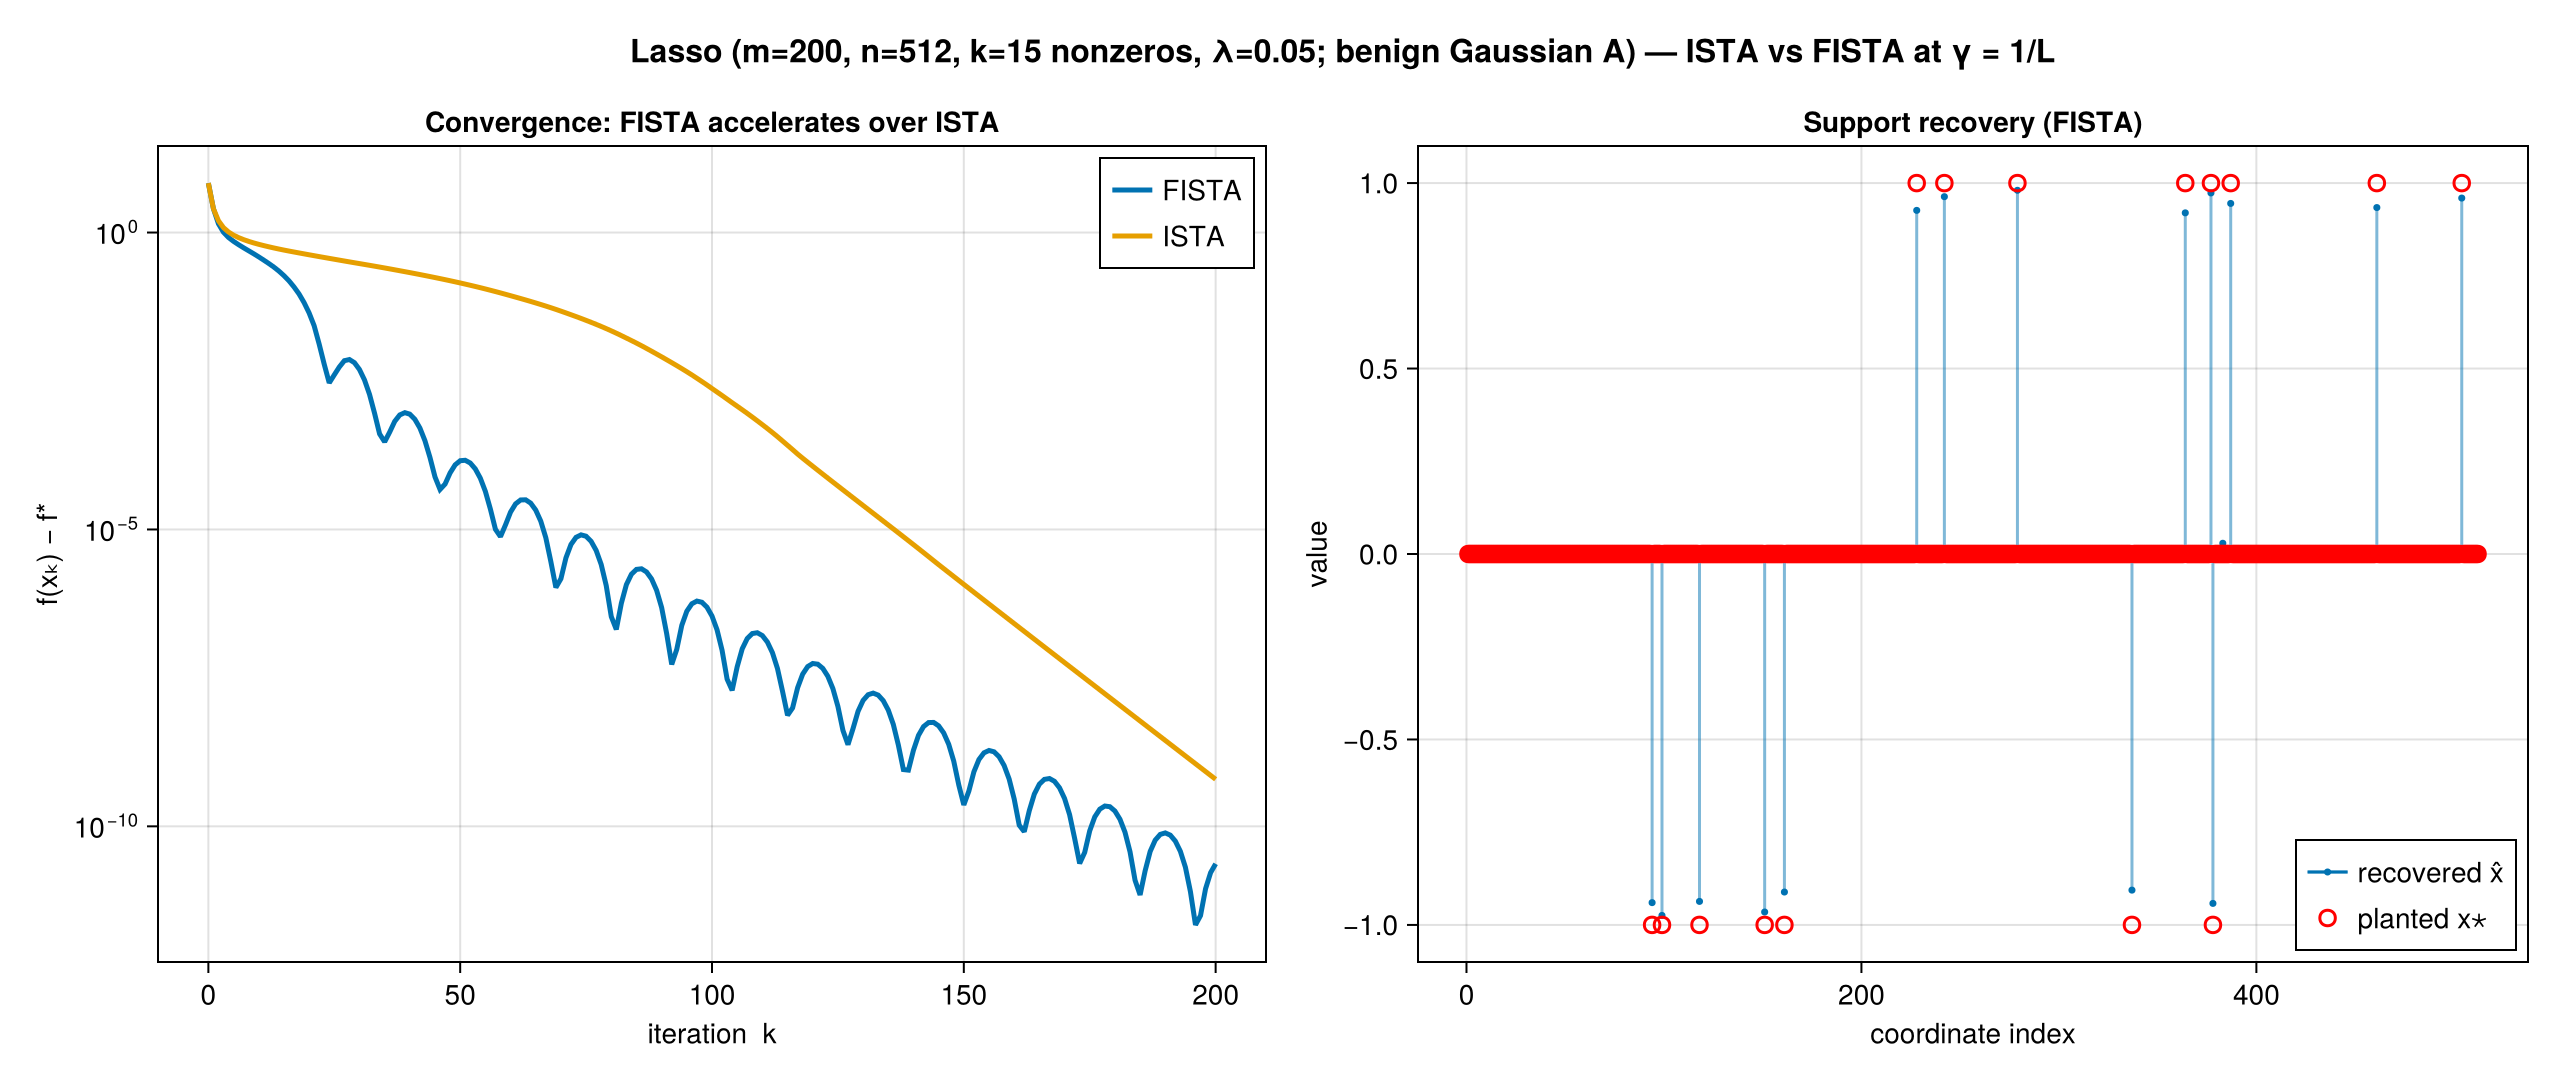
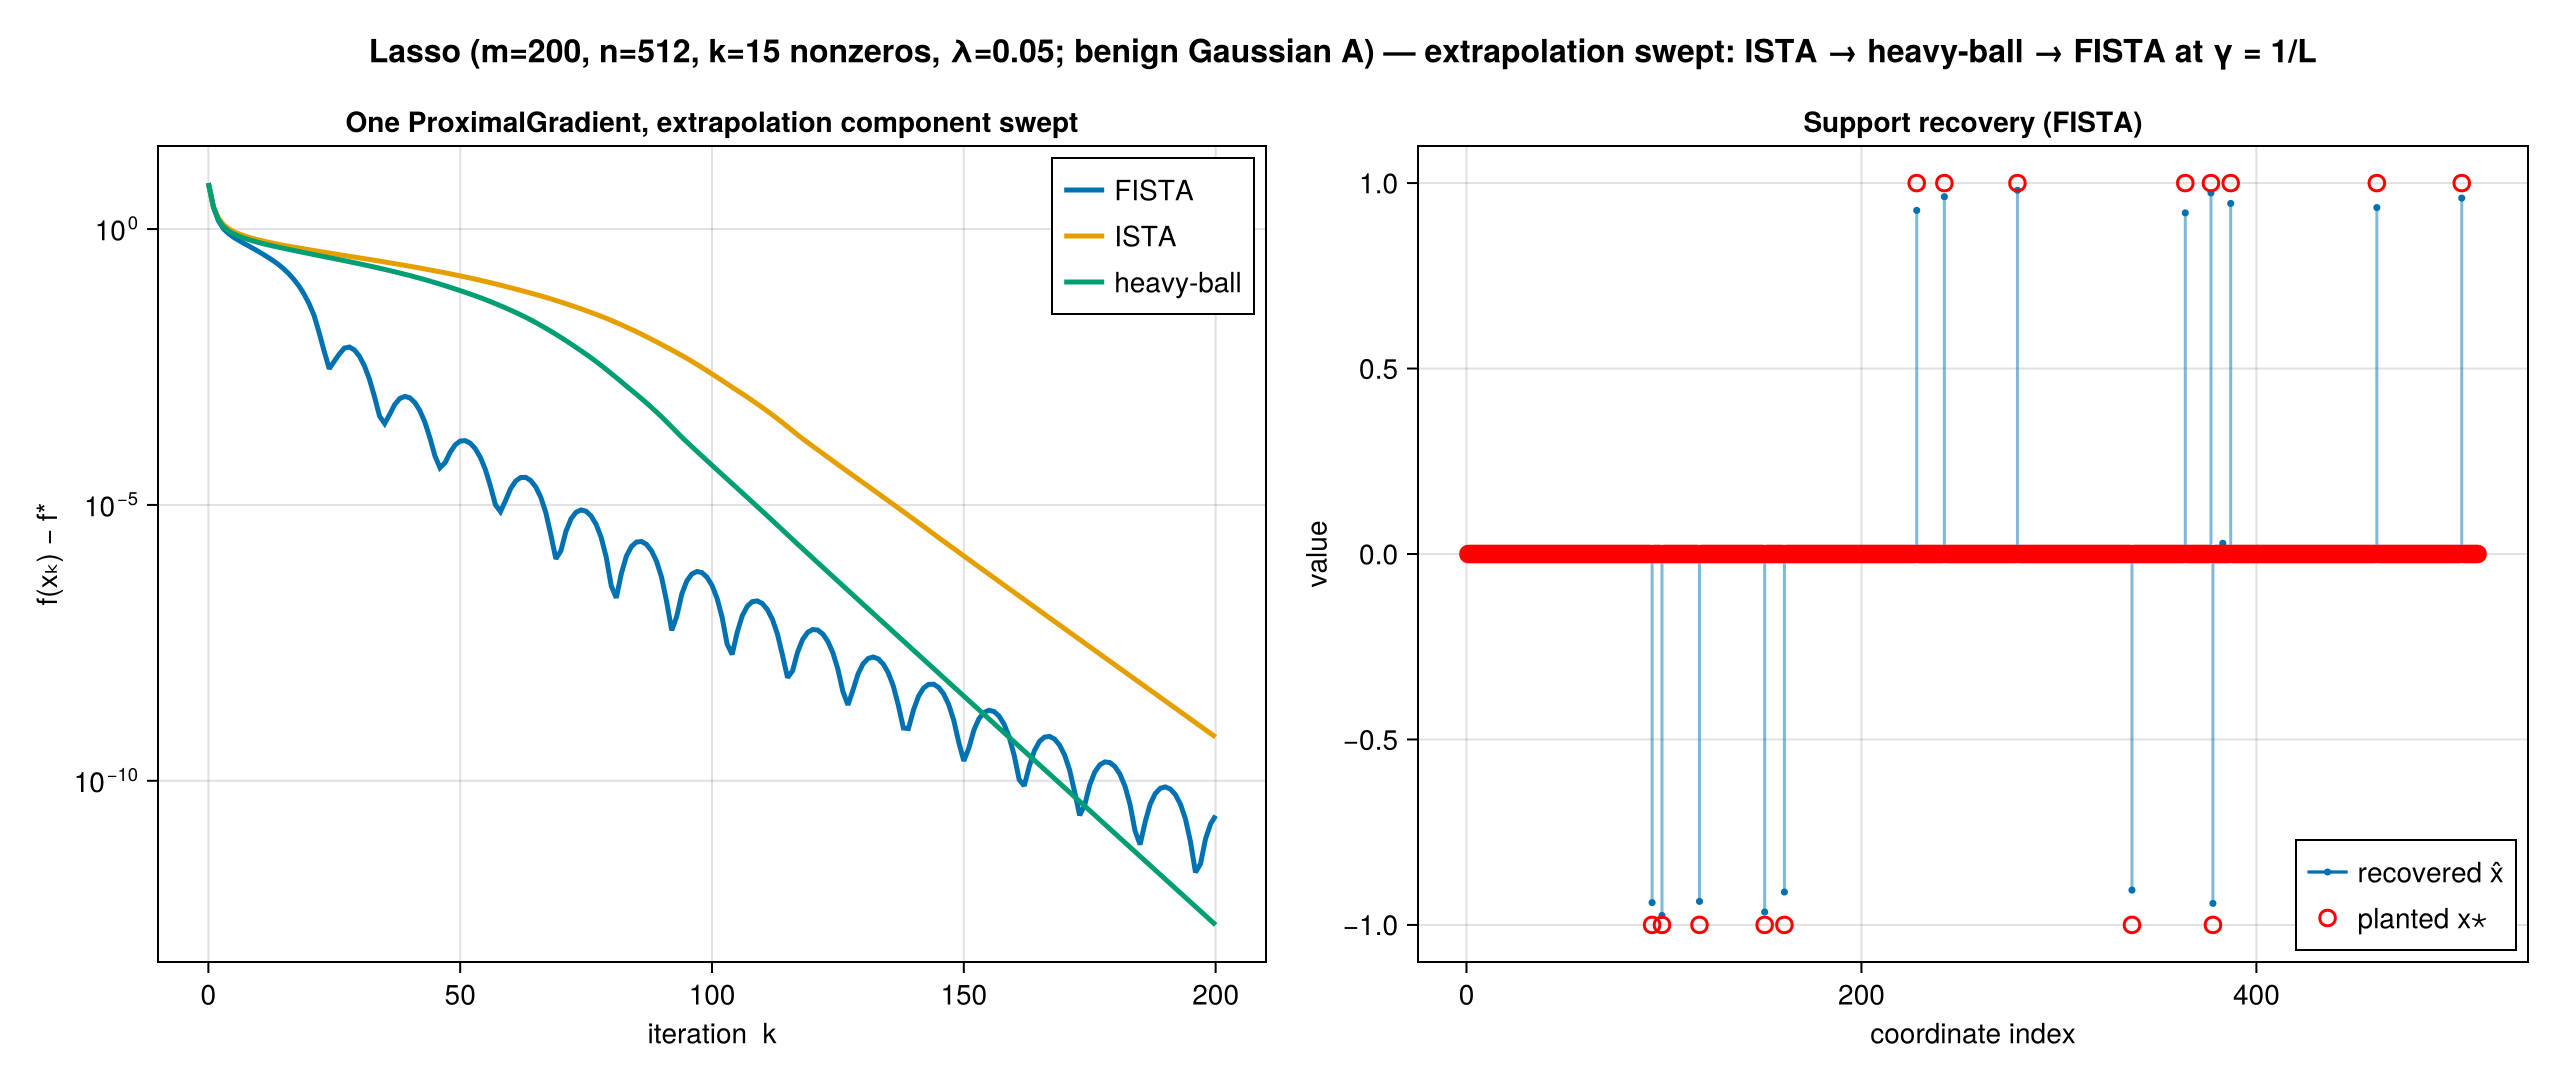
feature: flagship sweeps the extrapolation component

diff --git a/README.md b/README.md
@@ -8,6 +8,12 @@ define a method once, sweep its variants, run them against conventional baseline
 shared problems, and measure convergence and *core* compute time under one honest,
 reproducible harness.
 
+## See how it works
+
+[**walkthrough.ipynb**](walkthrough.ipynb) is a complete, runnable walkthrough of *using* the framework:
+define and register your own problem (ridge regression), author a custom method (heavy-ball), set up an experiment with a variant grid and baseline/experimental roles, run it, persist & reload, and plot the comparison —
+the best place to start if you want to see the tool driven end to end.
+
 ## Design philosophy
 
 - **Dispatch for extension, components for variation**:
@@ -39,30 +45,32 @@ dimension and conditioning sweeps, preconditioning, and a nested trust-region so
 with what each one demonstrates and all five figures, see
 **[experiments/README.md](experiments/README.md)**.
 
-![ISTA vs FISTA on the lasso: FISTA's O(1/k²) acceleration over ISTA's O(1/k), and exact support recovery](figures/lasso_ista_fista.png)
+![One ProximalGradient on the lasso with its extrapolation component swept — ISTA, heavy-ball, FISTA — and exact support recovery](figures/lasso_ista_fista.png)
 
-> **The flagship figure (above).** Proximal gradient on the sparse-recovery lasso
-> `min ½‖Ax−b‖² + λ‖x‖₁`. *Left:* FISTA's acceleration visibly beats ISTA — a ~1000×
-> smaller objective gap by iteration 50 (the `O(1/k)`-vs-`O(1/k²)` sublinear-rate
-> *slope* separation is measured directly in `test/test_proximal_gradient.jl`). *Right:* the recovered
-> solution lands exactly on the planted ±1 spikes, with a clean zero baseline.
+> **Flagship — one `ProximalGradient` on the sparse-recovery lasso**
+> `min ½‖Ax−b‖² + λ‖x‖₁`, with only its **extrapolation component swept**:
+> the project's core idea in one figure.
+> No momentum (ISTA) → fixed momentum (heavy-ball) → Nesterov's schedule (FISTA) orders the convergence (left);
+> the recovered solution lands exactly on the planted ±1 spikes (right).
+> Full annotation in **[DESIGN.md](DESIGN.md)**.
 
 ## Going deeper
 
-The engine itself developed and tested capability-by-capability across nine
-stages on Rosenbrock — first figure, then trajectories, persistence, stopping
-criteria, the orchestrator, multi-run, observability, cross-cutting validation.
-That staged build log lives in **[experiments/stages](experiments/stages/)**.
+The engine itself developed and tested capability-by-capability across nine stages on Rosenbrock —
+first figure, then trajectories, persistence, stopping criteria, the orchestrator, multi-run, observability, cross-cutting validation.
+That staged build log — with its own trajectory figures — lives in **[experiments/stages](experiments/stages/)**.
 
-[![GradientDescent step-size variants tracing Rosenbrock's valley toward the optimum, on log-spaced contours](experiments/stages/figures/stage2_trajectories.png)](experiments/stages/)
-
-*Stage 2: five step-size rules navigating the banana valley. ↑ click through to the build log.*
-
-## Run the tests
+## Tests & validation
 
 ```bash
 julia --project test/runtests.jl     # full unit + cross-validation suite
 ```
+
+Converged solutions are **externally cross-checked** against `A\b`,
+[Optim.jl](https://github.com/JuliaNLSolvers/Optim.jl) (GradientDescent / LBFGS) and
+[ProximalAlgorithms.jl](https://github.com/JuliaFirstOrder/ProximalAlgorithms.jl)
+(ForwardBackward / FastForwardBackward) — see
+[`test/test_external_validation.jl`](test/test_external_validation.jl).
 
 ## Layout
 
@@ -81,12 +89,6 @@ test/                runtests.jl + per-area test files
 ```
 
 ## Documentation
-
-[**walkthrough.ipynb**](walkthrough.ipynb) is a complete, runnable walkthrough of *using*
-the framework: define and register your own problem (ridge regression), author a custom
-method (heavy-ball), set up an experiment with a variant grid and baseline/experimental
-roles, run it, persist & reload, and plot the comparison. Best starting point if you want
-to learn how to drive the tool.
 
 [**docs/ARCHITECTURE.md**](docs/ARCHITECTURE.md) is the map of every document in the
 project — the hosted [Documenter site](https://MoFirouzT.github.io/Iterative-Methods-Test-Engine)

diff --git a/DESIGN.md b/DESIGN.md
@@ -45,35 +45,41 @@ You define a method once; the harness runs it (and its swept variants, and the c
    talks to the next through plain data structures, so any one can be read, tested, and
    replaced in isolation.
 
-## One experiment, annotated: ISTA → FISTA on the lasso
+## One experiment, annotated: sweeping one component on the lasso
 
 The flagship experiment ([experiments/exp_lasso_ista_fista.jl](experiments/exp_lasso_ista_fista.jl))
-exercises the whole composite-objective path with a single method.
+exercises the whole composite-objective path with a single method — and is the project's
+core idea in one figure: *one* method, with only a single swappable component varied.
 
 **Problem.** Sparse recovery: `min_x ½‖Ax − b‖² + λ‖x‖₁`, underdetermined (`m < n`) with a
 planted `k`-sparse signal — registered as the `:lasso` family.
 
-**Method.** `ProximalGradient` is one method with two plug-in slots: a `StepSize` and a
+**Method.** `ProximalGradient` is one method with two plug-in slots: a `StepSize` and an
 `Extrapolation`. Each step extrapolates, takes a gradient step on the smooth `½‖Ax−b‖²`, then
-applies the `prox` of `λ‖x‖₁` (soft-thresholding):
+applies the `prox` of `λ‖x‖₁` (soft-thresholding). The figure holds the `StepSize` fixed
+(`γ = 1/L`) and sweeps **only the `Extrapolation` component**:
 
 - `Extrapolation = NoExtrapolation()` ⇒ **ISTA** (plain proximal gradient, `O(1/k)`).
+- `Extrapolation = MomentumStep(α)` ⇒ **heavy-ball** (fixed-momentum extrapolation).
 - `Extrapolation = NesterovStep()` ⇒ **FISTA** (`O(1/k²)`).
 - a *zero* regularizer ⇒ the same method is (accelerated) gradient descent on a smooth
   problem — so one method also tells the smooth-acceleration story.
 
 **Result (the flagship figure).**
 
-![ISTA vs FISTA](figures/lasso_ista_fista.png)
+![One ProximalGradient on the lasso with its extrapolation component swept: ISTA, heavy-ball, FISTA, plus support recovery](figures/lasso_ista_fista.png)
 
-*Left:* `f(xₖ) − f*` on a log axis. FISTA's curve plunges below ISTA's and stays ~3–4 orders
-of magnitude lower through the interesting regime — FISTA's acceleration, with its
-characteristic non-monotone ripple. (The methods' worst-case rates are `O(1/k²)` vs `O(1/k)`;
-on this well-conditioned instance both *ultimately* converge linearly once the support is
-identified, so the figure shows the acceleration, while the clean `O(1/k)`-vs-`O(1/k²)` log-log
-*slope* separation is measured on a non-strongly-convex instance in
-`test/test_proximal_gradient.jl`.) *Right:* the recovered iterate's nonzeros
-coincide with the planted ±1 support, against a flat zero baseline.
+*Left:* `f(xₖ) − f*` on a log axis. The single swept component orders the convergence —
+**ISTA > heavy-ball > FISTA** — with FISTA's curve plunging lowest through the interesting
+regime, showing its characteristic non-monotone ripple, while heavy-ball's fixed momentum
+sits as a clean monotone middle tier. (The heavy-ball `α` is tuned to *stay* between the two
+through the readable regime; pushed larger it matches or beats FISTA on this benign instance,
+since heavy-ball is optimal for nice problems. The worst-case rates are `O(1/k²)` vs `O(1/k)`;
+on this well-conditioned instance all *ultimately* converge linearly once the support is
+identified, so the figure shows the acceleration ordering, while the clean
+`O(1/k)`-vs-`O(1/k²)` log-log *slope* separation is measured on a non-strongly-convex instance
+in `test/test_proximal_gradient.jl`.) *Right:* the recovered iterate's nonzeros coincide with
+the planted ±1 support, against a flat zero baseline.
 
 **Why it's trustworthy.** The regularizer's `prox` is provided by
 [ProximalOperators.jl](https://github.com/JuliaFirstOrder/ProximalOperators.jl) behind the

diff --git a/algorithms/proximal_gradient/proximal_gradient.md b/algorithms/proximal_gradient/proximal_gradient.md
@@ -18,7 +18,8 @@ end
 ```
 
 - `extrapolation = NoExtrapolation()` ⇒ **ISTA** (plain proximal gradient).
-- `extrapolation = NesterovStep()`  ⇒ **FISTA** (accelerated, `O(1/k²)`).
+- `extrapolation = MomentumStep(α)`   ⇒ **heavy-ball** (fixed-momentum extrapolation).
+- `extrapolation = NesterovStep()`    ⇒ **FISTA** (accelerated, `O(1/k²)`).
 - `g = ZeroRegularizer` (or no regularizer) ⇒ reduces to (accelerated)
   gradient descent on the smooth `f`, so the same method also tells the
   smooth-acceleration story.
@@ -102,10 +103,14 @@ of the iterate) when `dim ≤ 2`, for trajectory plots.
 ## 7. Win conditions (lasso experiment)
 
 - `prox` called once per step with step `γ`; `total_objective` sums `f + g`.
-- FISTA's `f − f*` curve visibly beats ISTA's (acceleration). On this well-conditioned
-  instance both converge linearly once the support is identified; the sublinear
-  `O(1/k)`-vs-`O(1/k²)` slope separation is measured on a dedicated non-strongly-convex
-  instance in `test/test_proximal_gradient.jl`.
+- Sweeping only the `extrapolation` component orders the convergence — at a mid
+  iteration the `f − f*` gap strictly decreases along `∅` → fixed momentum →
+  Nesterov, i.e. **ISTA > heavy-ball > FISTA** (heavy-ball `α` tuned so this tier
+  stays monotone through the readable regime; a larger `α` matches/beats FISTA on
+  this benign instance, since heavy-ball is optimal for nice problems). On this
+  well-conditioned instance all converge linearly once the support is identified;
+  the sublinear `O(1/k)`-vs-`O(1/k²)` slope separation is measured on a dedicated
+  non-strongly-convex instance in `test/test_proximal_gradient.jl`.
 - At sufficiently large `λ`, recovered support ⊆ true support; off-support
   coordinates are within one soft-threshold (`|x_i| ≤ γλ`) of zero.
 

diff --git a/experiments/README.md b/experiments/README.md
@@ -24,7 +24,7 @@ method zoo. The five shipped experiments:
 
 | Script | Figure | Demonstrates |
 | --- | --- | --- |
-| [`exp_lasso_ista_fista.jl`](exp_lasso_ista_fista.jl) | `lasso_ista_fista.png` (flagship) | Composite `f + g`, `prox` dispatch, Nesterov acceleration (ISTA → FISTA) on the lasso |
+| [`exp_lasso_ista_fista.jl`](exp_lasso_ista_fista.jl) | `lasso_ista_fista.png` (flagship) | One `ProximalGradient`, **extrapolation component swept** (ISTA → heavy-ball → FISTA); composite `f + g`, `prox` dispatch, Nesterov acceleration on the lasso |
 | [`exp_ls1_dimension.jl`](exp_ls1_dimension.jl) | `ls1_dimension.png` | Least-squares dimension sweep; matrix-free `OperatorHessian`; the core-time/wall-time timing pillar |
 | [`exp_ls2_conditioning.jl`](exp_ls2_conditioning.jl) | `ls2_conditioning.png` | Conditioning controls the rate: `O(κ)` vs `O(√κ)` |
 | [`exp_precond_grid.jl`](exp_precond_grid.jl) | `precond_grid.png` | `VariantGrid` sweep + role-based baseline/experimental routing; Jacobi preconditioning ≈ Newton |
@@ -40,8 +40,8 @@ and [`ProximalAlgorithms.jl`](https://github.com/JuliaFirstOrder/ProximalAlgorit
 
 ### Figures
 
-<img src="../figures/lasso_ista_fista.png" width="560" alt="ISTA vs FISTA on the lasso: FISTA's O(1/k²) acceleration over ISTA's O(1/k), and exact support recovery"><br>
-*`lasso_ista_fista` (flagship) — ISTA vs FISTA: `O(1/k²)` acceleration over `O(1/k)`, plus exact support recovery.*
+<img src="../figures/lasso_ista_fista.png" width="560" alt="One ProximalGradient on the lasso with its extrapolation component swept — ISTA, heavy-ball, FISTA — plus exact support recovery"><br>
+*`lasso_ista_fista` (flagship) — one `ProximalGradient` with the extrapolation component swept: ISTA → heavy-ball → FISTA orders the convergence, plus exact support recovery.*
 
 <img src="../figures/ls1_dimension.png" width="560" alt="Least-squares dimension sweep: convergence and the core-time/wall-time timing pillar across problem sizes"><br>
 *`ls1_dimension` — dimension sweep; matrix-free `OperatorHessian`; the core-time/wall-time timing pillar.*

diff --git a/docs/src/index.md b/docs/src/index.md
@@ -11,7 +11,7 @@ want to run it, start with the
 one-command demo, or the
 [five-minute tour](https://github.com/MoFirouzT/Iterative-Methods-Test-Engine/blob/main/DESIGN.md).
 
-![ISTA vs FISTA on the lasso: FISTA's O(1/k²) acceleration over ISTA's O(1/k), and exact support recovery](https://raw.githubusercontent.com/MoFirouzT/Iterative-Methods-Test-Engine/main/figures/lasso_ista_fista.png)
+![One ProximalGradient on the lasso with its extrapolation component swept — ISTA, heavy-ball, FISTA — and exact support recovery](https://raw.githubusercontent.com/MoFirouzT/Iterative-Methods-Test-Engine/main/figures/lasso_ista_fista.png)
 
 ## Mathematical model & scope
 